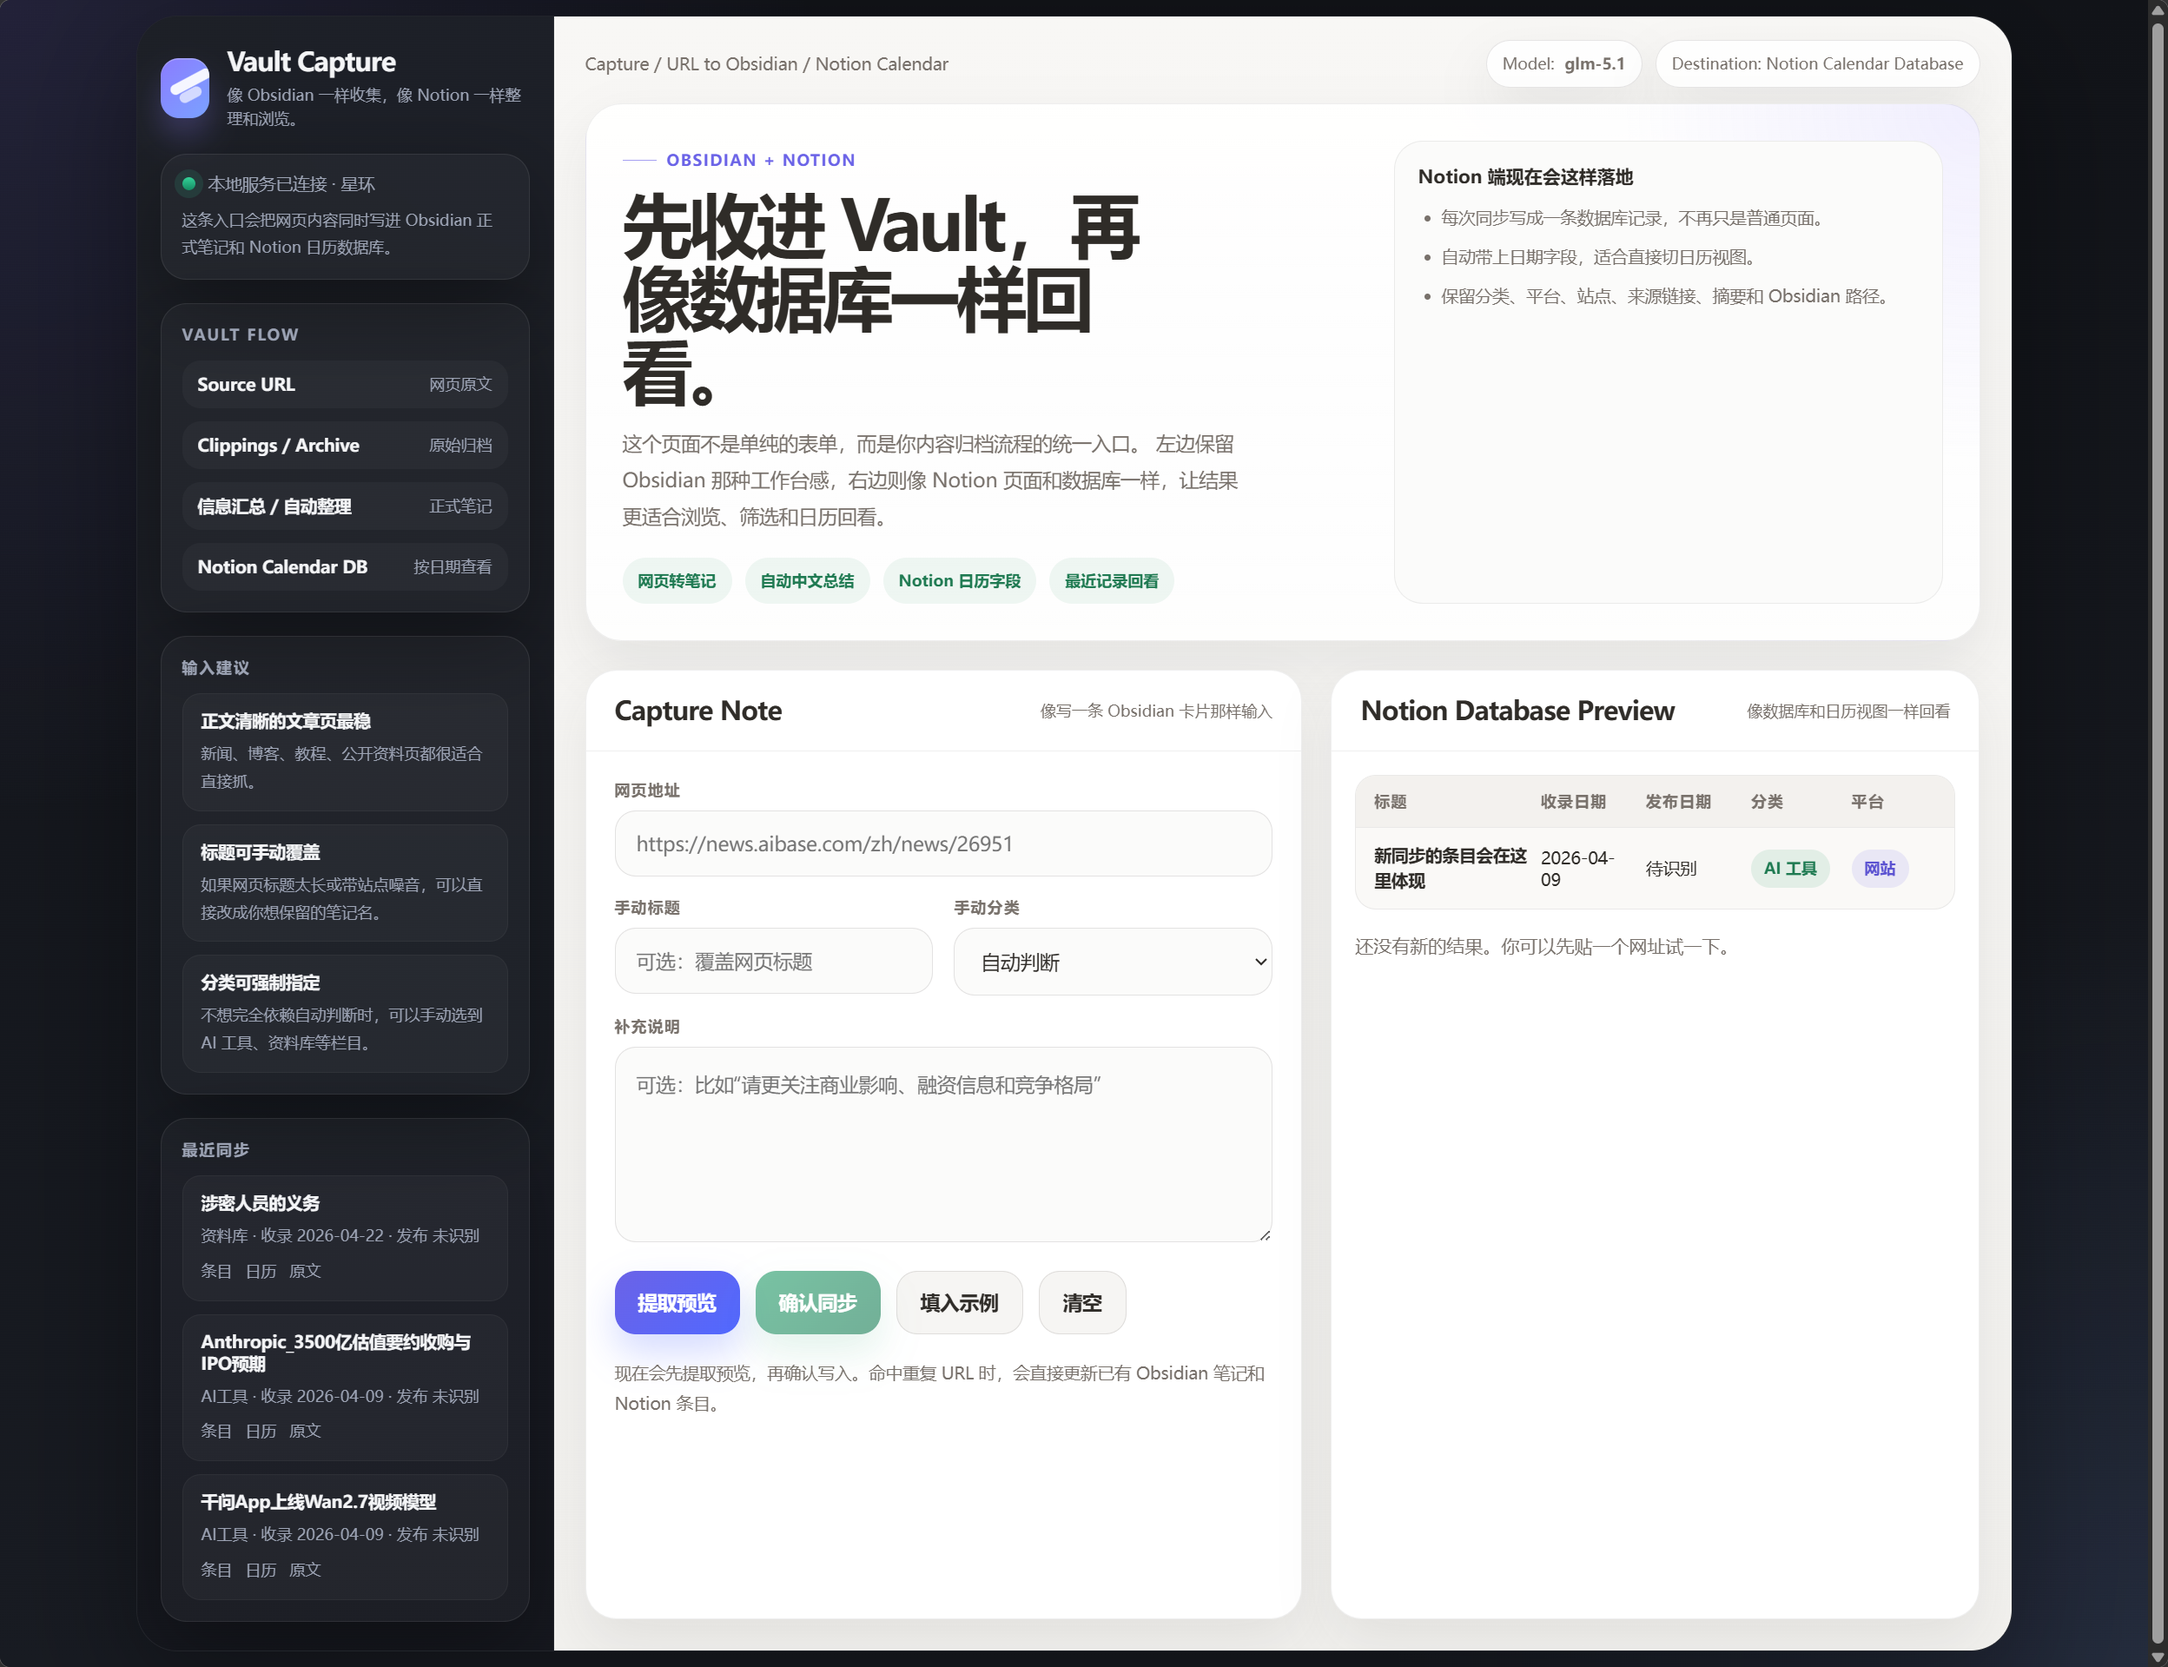
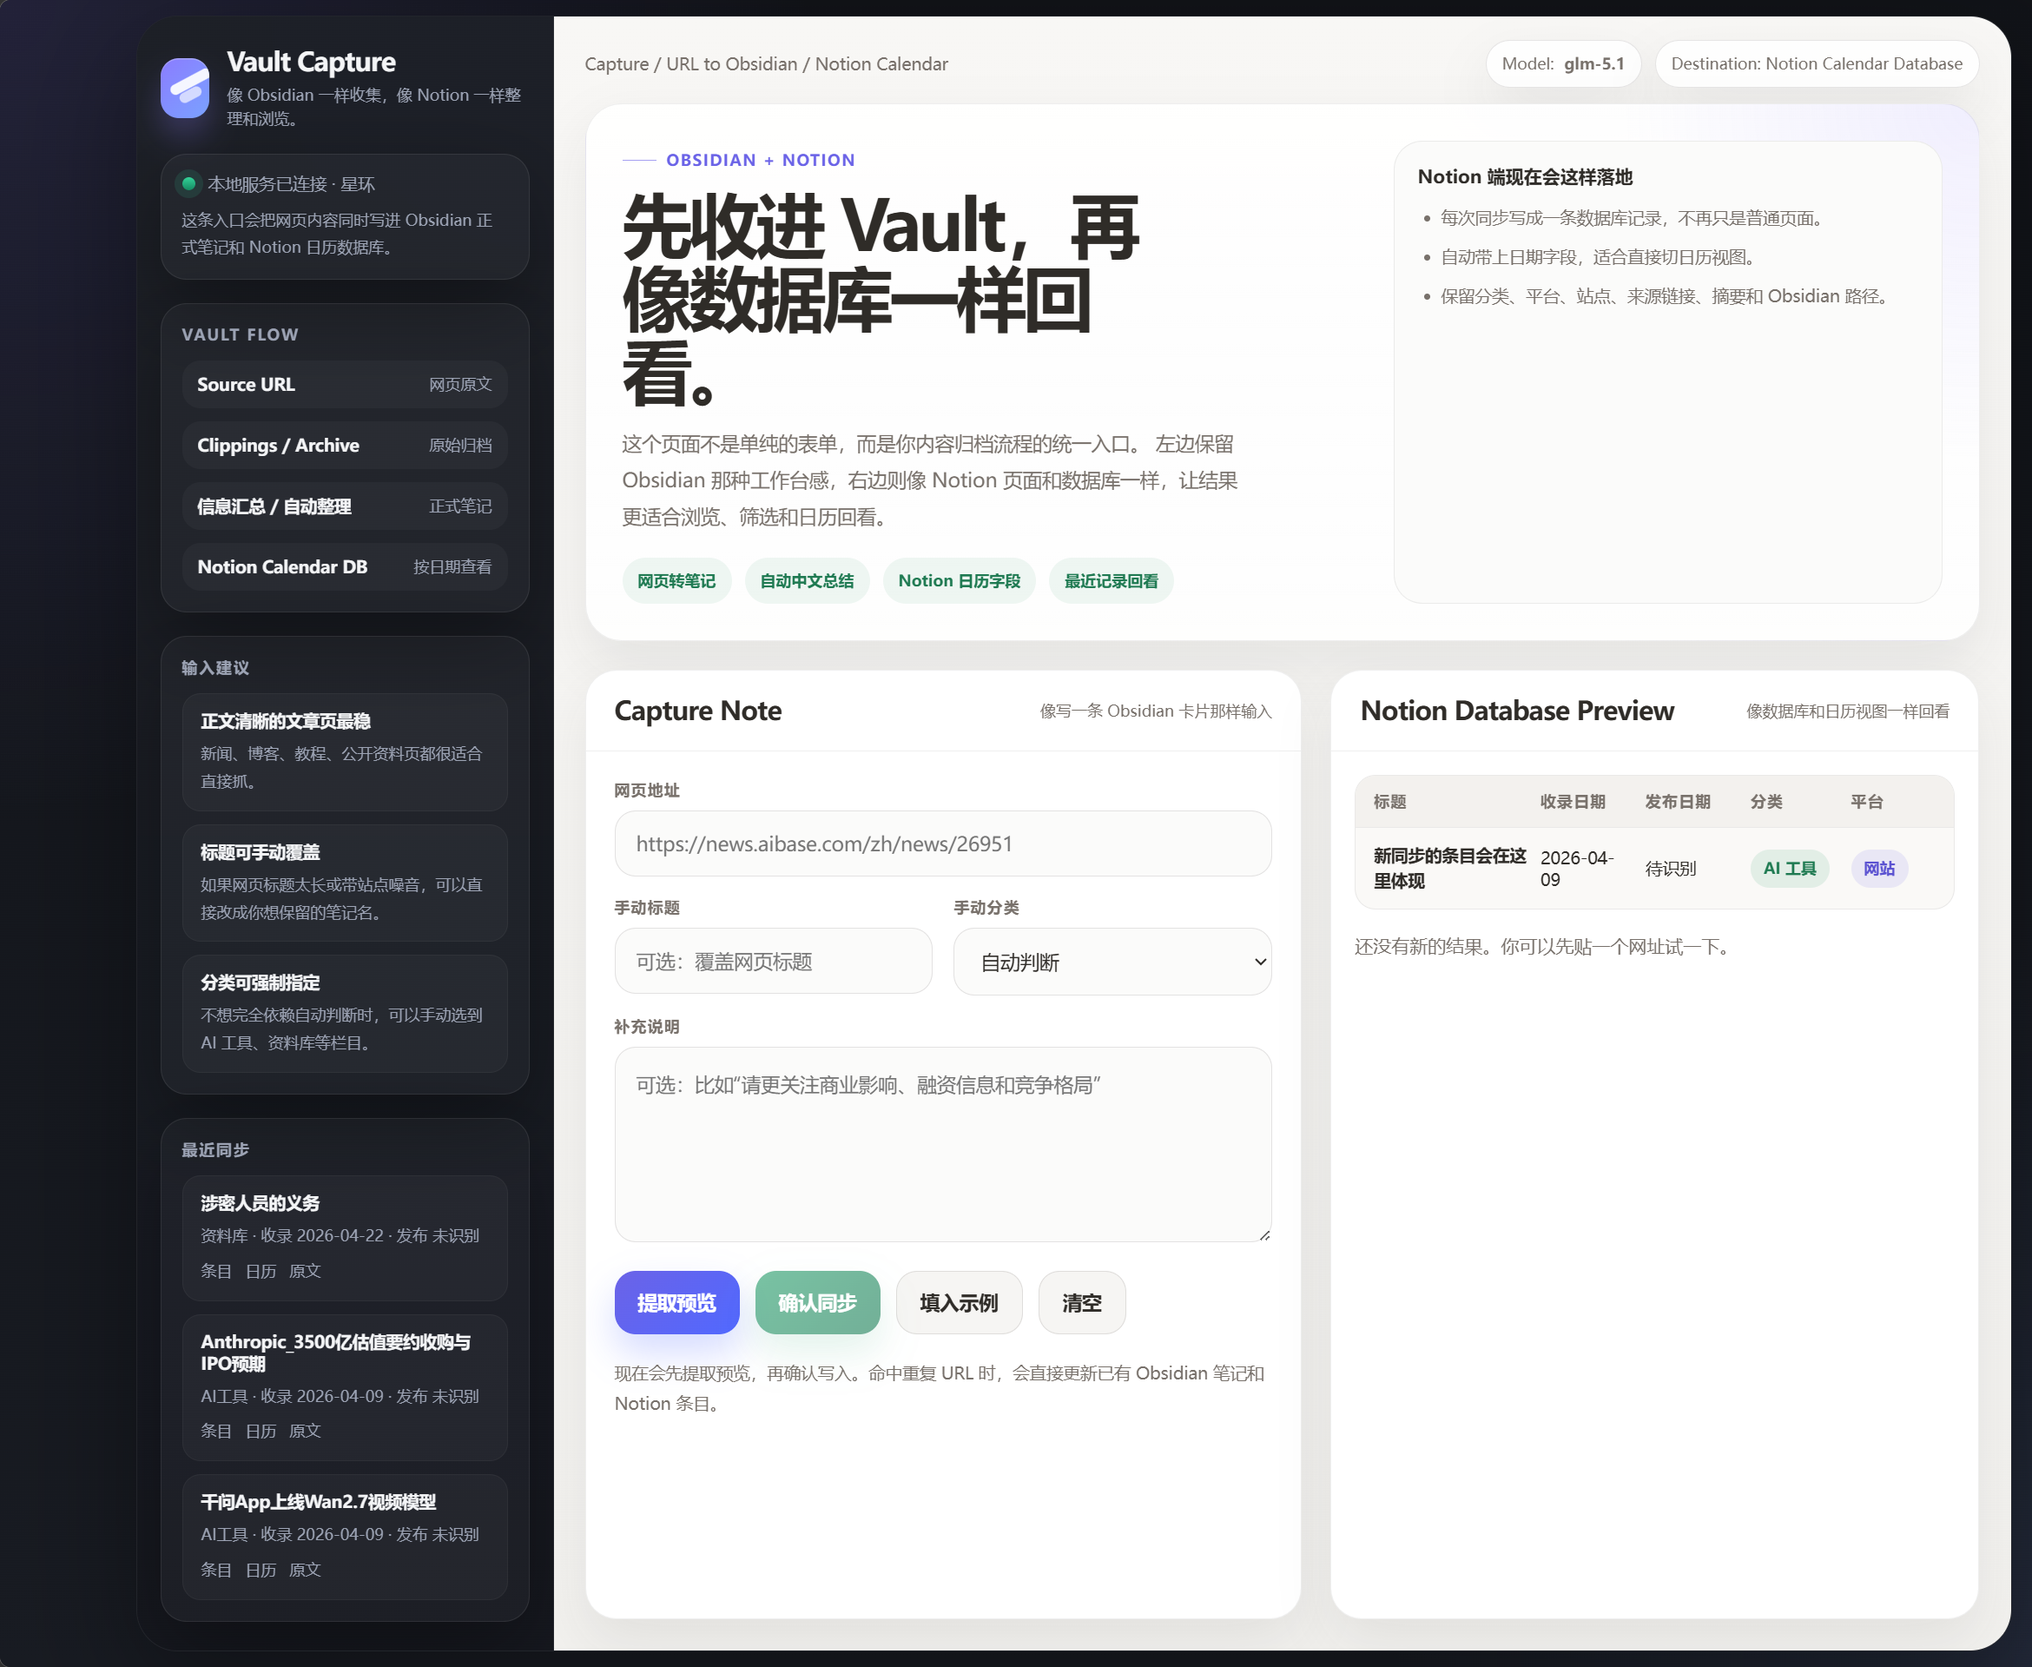
Polish project presentation

diff --git a/README.md b/README.md
@@ -1,20 +1,62 @@
-# Vault Capture
+<p align="center">
+  <img src="assets/vault-capture-logo.svg" width="96" alt="Vault Capture logo">
+</p>
 
-Vault Capture is a local Windows workflow for collecting web pages into an Obsidian vault and a Notion calendar database. It runs a small local web page, extracts and summarizes a URL, previews the result, then writes the confirmed capture to Obsidian and Notion.
+<h1 align="center">Vault Capture</h1>
 
-![Vault Capture local UI screenshot](assets/vault-capture-screenshot.png)
+<p align="center">
+  <strong>Local-first URL capture for Obsidian vaults and Notion calendar databases.</strong>
+</p>
 
-## Status
+<p align="center">
+  <a href="LICENSE"><img alt="License: MIT" src="https://img.shields.io/badge/license-MIT-6B63E7"></a>
+  <img alt="Python" src="https://img.shields.io/badge/python-3.10%2B-3776AB">
+  <img alt="Platform" src="https://img.shields.io/badge/platform-Windows-0078D4">
+  <img alt="Privacy" src="https://img.shields.io/badge/privacy-local--first-159A66">
+  <img alt="Status" src="https://img.shields.io/badge/status-active-222222">
+</p>
 
-This project is open source under the MIT License.
+<p align="center">
+  <img src="assets/vault-capture-screenshot.png" alt="Vault Capture local UI screenshot">
+</p>
 
-## Features
+## Overview
 
-- Paste a URL and preview the extracted title, summary, category, tags, and duplicate status before writing anything.
-- Save the original clipping and the cleaned note into an Obsidian vault.
-- Create or update a Notion database named `网页采集日历`.
-- Reuse existing Obsidian and Notion records when the same source URL is captured again.
-- Keep secrets and runtime history out of Git by default.
+Vault Capture is a focused local workflow for turning useful web pages into durable personal knowledge. It extracts a source URL, generates a Chinese summary, previews the result, then writes the confirmed capture to an Obsidian vault and a Notion calendar database.
+
+The project is intentionally small: a local HTML interface, a Python server, PowerShell launch scripts, and plain configuration files. Secrets and runtime data stay local.
+
+## Why It Exists
+
+Most capture tools either stop at bookmarks or scatter content across separate systems. Vault Capture gives one repeatable path:
+
+- Capture once from a URL.
+- Review the extracted title, category, summary, tags, and duplicate status.
+- Save a raw archive and a cleaned Obsidian note.
+- Sync a structured Notion entry that is easy to browse by date, category, platform, and source.
+
+## Highlights
+
+- Review-before-write flow to avoid polluting Obsidian or Notion with bad extraction results.
+- Duplicate-aware capture so repeated URLs update existing records where possible.
+- Obsidian-first Markdown output for long-term portability.
+- Notion calendar database for browsing and resurfacing captured knowledge.
+- Local-only credentials through `config.ps1`, which is ignored by Git.
+- Minimal dependency surface: Python, PowerShell, `requests`, and `beautifulsoup4`.
+
+## Architecture
+
+```mermaid
+flowchart LR
+    UI["Local capture UI"] --> API["Python HTTP server"]
+    API --> Extract["Web page extraction"]
+    API --> Summary["Zhipu summary"]
+    API --> Vault["Obsidian Markdown"]
+    API --> Calendar["Notion calendar DB"]
+    API --> Runtime["Ignored local runtime cache"]
+```
+
+For a deeper system breakdown, see [docs/architecture.md](docs/architecture.md).
 
 ## Requirements
 
@@ -22,7 +64,8 @@ This project is open source under the MIT License.
 - Python 3.10 or newer
 - An Obsidian vault
 - A Zhipu API key
-- A Notion integration token and a parent page/database location the integration can access
+- A Notion integration token
+- A Notion parent page where the capture database can be created or reused
 
 ## Quick Start
 
@@ -37,7 +80,7 @@ notepad .\config.ps1
 .\launch-url-capture.bat
 ```
 
-After launch, open:
+Open the local app:
 
 ```text
 http://127.0.0.1:8765
@@ -45,7 +88,7 @@ http://127.0.0.1:8765
 
 ## Configuration
 
-`config.ps1` is intentionally ignored by Git because it contains local paths and tokens. Start from `config.example.ps1` and fill in these values:
+`config.ps1` contains local paths and credentials, so it is intentionally excluded from Git. Start from `config.example.ps1`.
 
 | Variable | Purpose |
 | --- | --- |
@@ -61,22 +104,25 @@ http://127.0.0.1:8765
 Vault Capture writes to:
 
 - `<Obsidian Vault>/Clippings/Archive`
-- `<Obsidian Vault>/信息汇总/自动整理/<分类>/`
+- `<Obsidian Vault>/信息汇总/自动整理/<category>/`
 - A Notion database named `网页采集日历`
 
-The Notion database includes fields such as title, capture date, publish date, category, platform, site, source URL, tags, summary, and Obsidian path.
+The Notion database includes title, capture date, publish date, category, platform, site, source URL, tags, summary, and Obsidian path.
 
-## Project Files
+## Project Layout
 
-- `launch-url-capture.bat` starts the local app.
-- `start-url-capture.ps1` loads `config.ps1`, opens the browser, and runs the Python server.
-- `url_capture_server.py` serves the API and handles capture, summary, Obsidian, and Notion sync.
-- `url-capture.html` is the local capture UI.
-- `summary-schema.json` documents the summary shape.
-- `config.example.ps1` is the safe template for local configuration.
-- `requirements.txt` lists Python dependencies.
+| Path | Purpose |
+| --- | --- |
+| `url-capture.html` | Local capture interface |
+| `url_capture_server.py` | Local HTTP API, extraction, summary, Obsidian write, Notion sync |
+| `launch-url-capture.bat` | Windows launcher |
+| `start-url-capture.ps1` | Loads `config.ps1` and starts the server |
+| `config.example.ps1` | Safe configuration template |
+| `summary-schema.json` | Summary output shape |
+| `assets/` | README visual assets |
+| `docs/` | Architecture and operating notes |
 
-Older n8n exports and manual test payloads are treated as local artifacts and are ignored by Git until they are sanitized.
+Older n8n exports and manual test payloads are treated as local artifacts until they are sanitized for sharing.
 
 ## Health Check
 
@@ -86,19 +132,20 @@ With the server running:
 Invoke-RestMethod http://127.0.0.1:8765/api/health
 ```
 
-## GitHub Safety
+## Security
 
-Before publishing, confirm that these files are not staged or committed:
+This is a local personal workflow tool, not a hosted multi-user service. Keep it bound to `127.0.0.1` unless you have reviewed and hardened every write endpoint.
+
+Never commit:
 
 - `config.ps1`
 - `runtime/`
-- n8n workflow exports with local paths
-- Notion or API test payloads containing real ids or tokens
+- API keys or Notion tokens
+- local vault paths that reveal private machine structure
+- captured page history or personal note content
 
-If a real token is ever committed, rotate it immediately in the provider dashboard.
-
-See `SECURITY.md` for the full local-secret handling policy.
+See [SECURITY.md](SECURITY.md) for the full policy.
 
 ## License
 
-MIT. See `LICENSE`.
+MIT. See [LICENSE](LICENSE).

diff --git a/docs/architecture.md b/docs/architecture.md
@@ -1,0 +1,44 @@
+# Architecture
+
+Vault Capture is a local-first capture pipeline. It keeps credentials and working data on the user's machine, then writes only confirmed capture results to Obsidian and Notion.
+
+```mermaid
+flowchart LR
+    Browser["Local capture UI<br/>url-capture.html"]
+    Server["Local Python server<br/>url_capture_server.py"]
+    Extractor["Page extraction<br/>requests + BeautifulSoup"]
+    Summarizer["Chinese summary<br/>Zhipu API"]
+    Runtime["Local runtime cache<br/>runtime/"]
+    Obsidian["Obsidian vault<br/>Archive + formal notes"]
+    Notion["Notion calendar database<br/>网页采集日历"]
+
+    Browser --> Server
+    Server --> Extractor
+    Server --> Summarizer
+    Server --> Runtime
+    Server --> Obsidian
+    Server --> Notion
+```
+
+## Design Principles
+
+- Local-first: configuration, credentials, and capture history stay outside Git and on the user's machine.
+- Review-before-write: the UI previews extraction and summary results before committing them to downstream systems.
+- Idempotent capture: repeated source URLs update existing records where possible instead of creating duplicate knowledge entries.
+- Plain files first: Obsidian output remains portable Markdown instead of an application-specific database.
+- Service boundaries: Notion and Zhipu calls are isolated in the local server, keeping the browser UI simple.
+
+## Runtime Surfaces
+
+| Surface | File | Responsibility |
+| --- | --- | --- |
+| Local UI | `url-capture.html` | Capture form, preview state, Notion-style database preview |
+| Launcher | `launch-url-capture.bat` | Starts the workflow from Windows |
+| Bootstrap | `start-url-capture.ps1` | Loads local config and starts the Python server |
+| Server | `url_capture_server.py` | HTTP API, extraction, summarization, Obsidian write, Notion sync |
+| Config template | `config.example.ps1` | Safe example for local secrets and paths |
+| Runtime data | `runtime/` | Ignored local cache, history, and Notion metadata |
+
+## Security Boundary
+
+The server is intended to bind to `127.0.0.1`. Do not expose it to a public network without adding authentication, CSRF protection, rate limits, and a review of every write endpoint.
